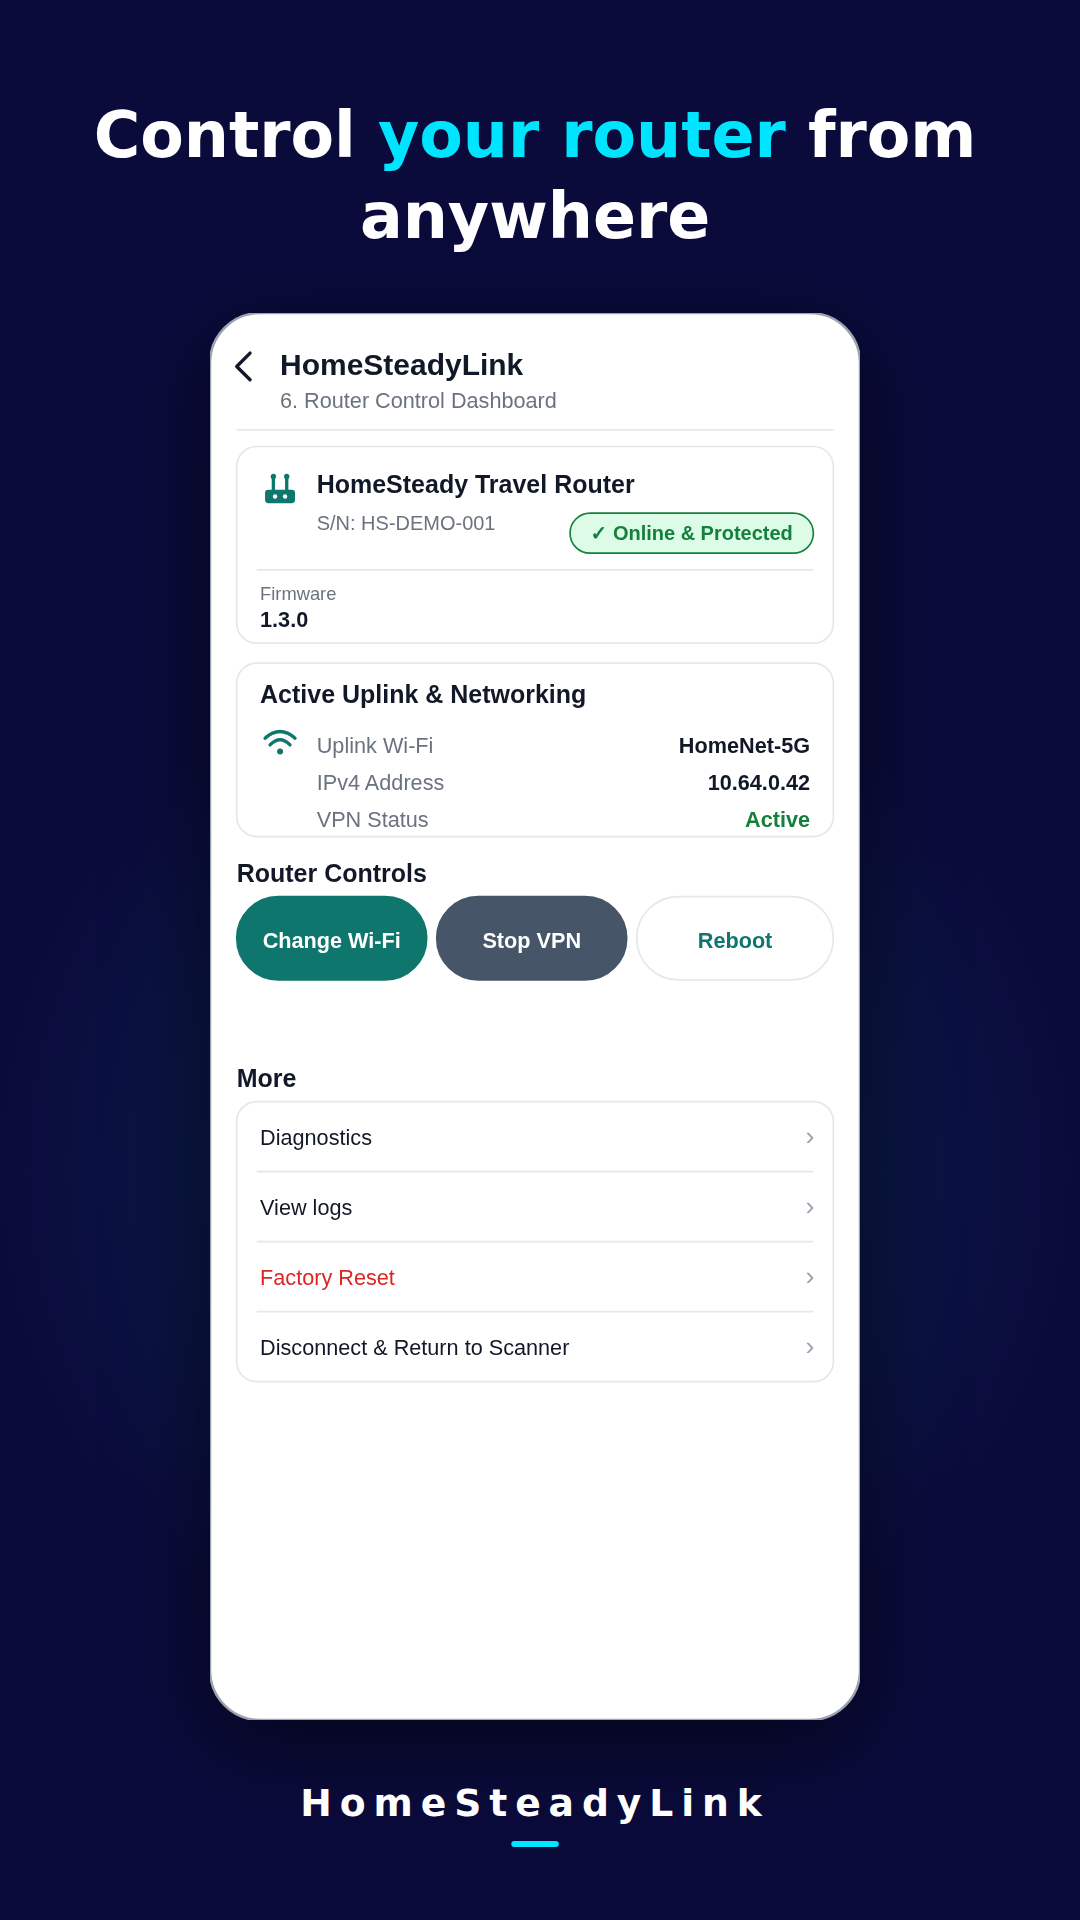
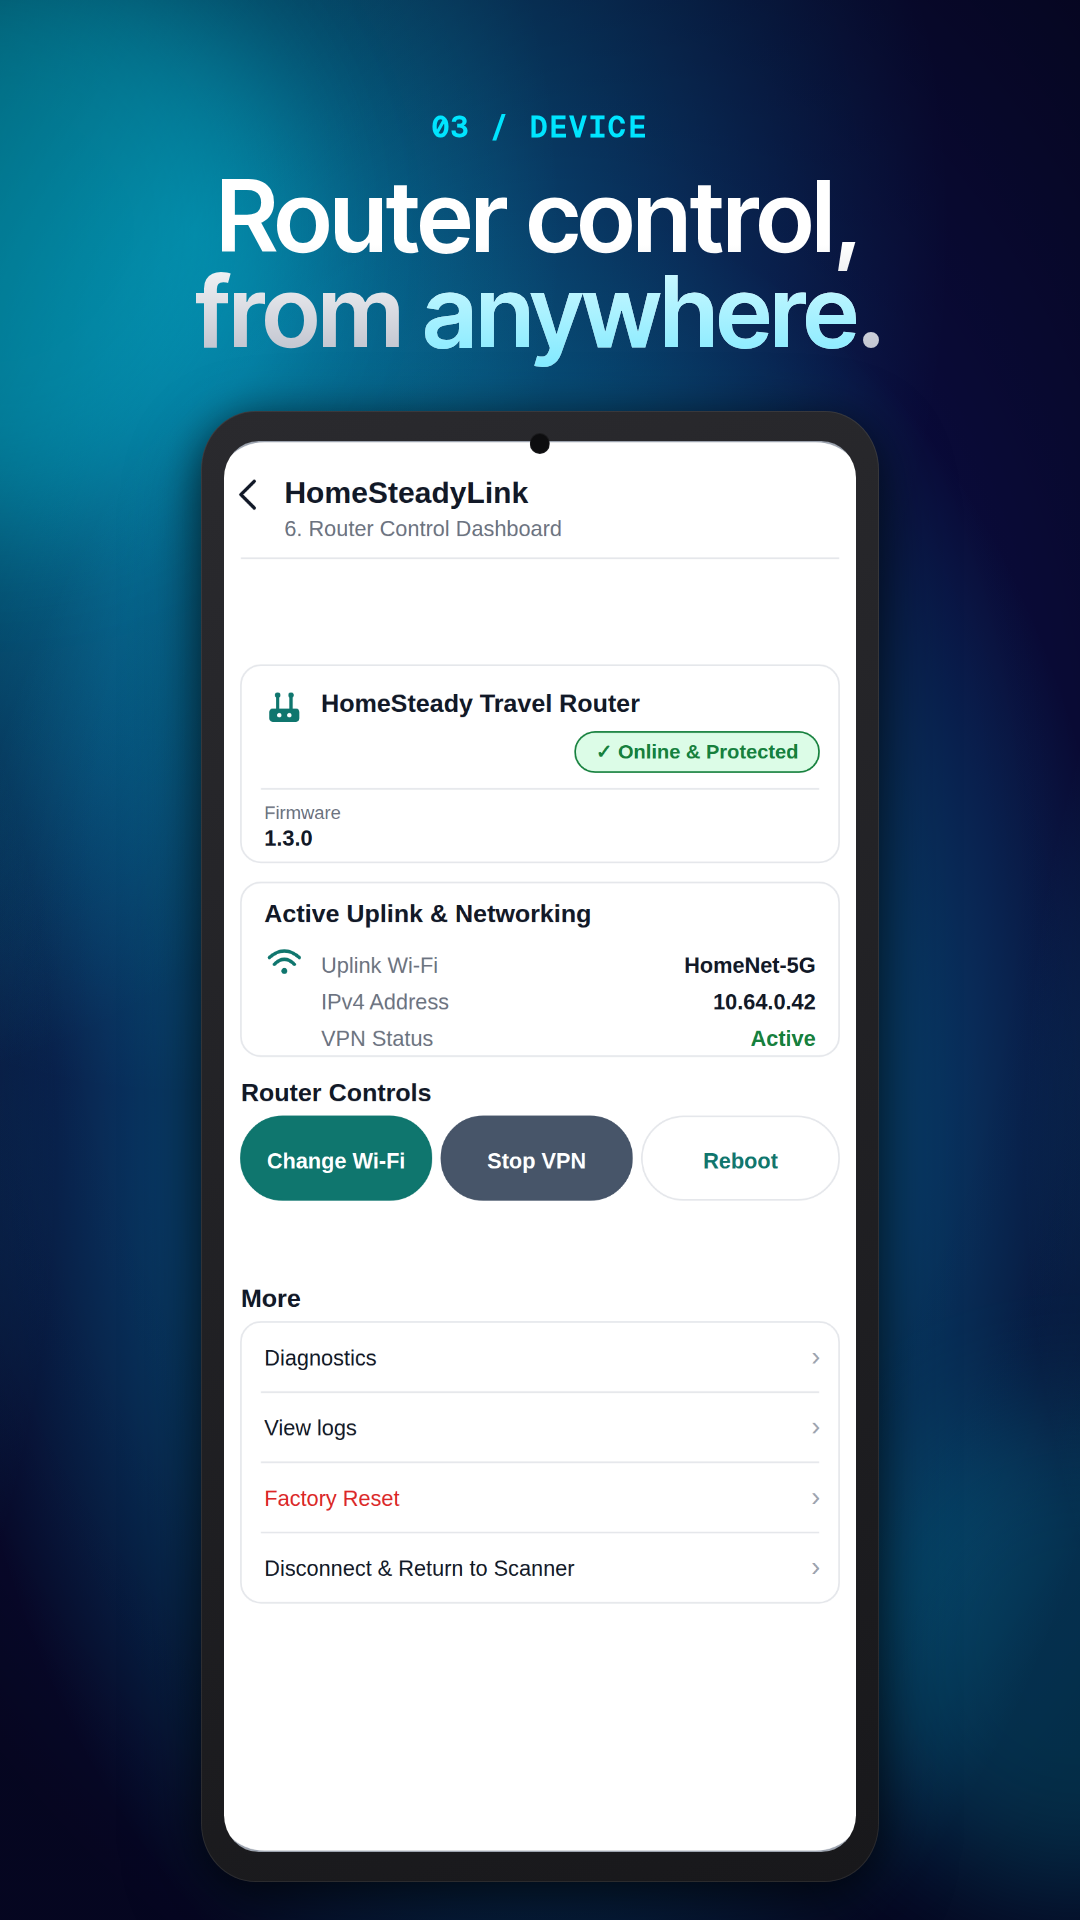
design: regenerate Play ASO cards v2 with ParthJadhav editor (Midnight Glow Pro, cyan beam)
Den: v1 design sucks. Rebuilt with the app-store-screenshots editor:
- Midnight Glow Pro, cyan-beam adaptation (brand navy void, cyan
  spotlight, Inter Tight 600 gradient headlines, one cyan-lit word
  per card, mono eyebrow labels, real device bezel)
- Card 1 is a real v3 emulator capture; cards 2-5 cleaned wireframes
  (fake banner / UUID / spec notes stripped)
- Critic 5x PASS; thumbnail test at 220px PASS
- Slot order + 2-5-word captions unchanged

diff --git a/design/play-screenshots/README.md b/design/play-screenshots/README.md
@@ -5,13 +5,24 @@ Branded store cards for the Google Play listing, built 2026-11-18
 screenshots). One benefit headline per card, brand navy #0A0B3B +
 cyan #00E5FF, style Bold, tagline "Your home network, anywhere you go".
 
+**v2 (2026-11-18, regenerated after Den: "design sucks")** — rebuilt with
+the ParthJadhav `app-store-screenshots` editor (vendored skill), style
+**Midnight Glow Pro, cyan-beam adaptation**: near-black navy void,
+cyan spotlight from above, Inter Tight 600 headlines with a white→grey
+gradient and one cyan-lit word per card, mono eyebrow labels
+(`01 / SCAN` …), real device bezel with shadow + glow. Editor project:
+`~/workspace/homesteadylink/card-editor/` (`app-store-screenshots.json`
+deck, `clean-wireframes.py`, `render-wireframes.cjs`, `export-deck.cjs`).
+Headline scale 1.0; device-bottom captions shifted +50 px so 2-line
+headlines clear the phone bezel.
+
 | # | File | Headline | Screen |
 |---|------|----------|--------|
-| 1 | 01-scan-home-network.png | Home network, anywhere you go | Scan — finds the router, Connect |
+| 1 | 01-scan-home-network.png | Home network, anywhere you go | Scan — REAL v3 emulator capture (real flavor) |
 | 2 | 02-vpn-kill-switch.png | Kill switch on. Nothing leaks. | VPN — WireGuard/Tailscale, masked config |
-| 3 | 03-device-control.png | Control your router from anywhere | Device — status, VPN toggle, controls |
-| 4 | 04-wifi-pick-network.png | Join any Wi-Fi in seconds | Wi-Fi — pick network, enter password |
-| 5 | 05-pair-one-code.png | One code pairs your router | Pair — 6-digit setup code |
+| 3 | 03-device-control.png | Router control, from anywhere. | Device — status, VPN toggle, controls |
+| 4 | 04-wifi-pick-network.png | Join any Wi-Fi in seconds. | Wi-Fi — pick network, enter password |
+| 5 | 05-pair-one-code.png | One code pairs your router. | Pair — 6-digit setup code |
 
 Order follows the app-store-optimization skill: slot 1 primary value,
 slot 2 core differentiator (VPN + kill switch), slot 3 next strongest
@@ -23,45 +34,55 @@ tagline stays on the feature graphic and in the listing copy.
 
 ## Source (provenance — read before replacing)
 
-The phone UI on each card is the **approved wireframe** from
-`HomesteadLink/mobile-app` `docs/wireframes/` (PR #67, redrawn
-post-simplicity), cleaned for public use — the raw wireframes carry a
-"FAKE DEVICE MODE" banner and drafting notes, which were stripped
-(see the cleaning script in `~/workspace/homesteadylink/aso-cards/build/clean-svgs.py`).
-Fidelity fixes vs. the shipped app, verified against the code:
-Pair subtitle shows just the BLE address (PairScreen.kt:99); Device
-serial is the app fallback HS-DEMO-001; VPN config shows the masked
-display the app shows by default. Card 1 also carries the real v3
-order link ("Don't have a board? Let's order one", PR #78).
+Card 1 is a **real capture**: the v3 real-flavor emulator run
+(`~/workspace/homesteadylink/emu-v3/shot-real-scan.png`, 1080×2400),
+showing the shipped Scan screen with the "Scan again" button and the
+"Don't have a board? Let's order one" link (PR #78). Cards 2–5 use the
+**approved wireframe** from `HomesteadLink/mobile-app` `docs/wireframes/`
+(PR #67, redrawn post-simplicity), cleaned for public use — the raw
+wireframes carry a "FAKE DEVICE MODE" banner, a service UUID, a BLE MAC
+and drafting notes, which were stripped (v2 cleaning script:
+`~/workspace/homesteadylink/card-editor/clean-wireframes.py`; v1:
+`~/workspace/homesteadylink/aso-cards/build/clean-svgs.py`). The s3
+helper line "Using your phone's Wi-Fi network …" is genuine UI copy and
+was kept. No clean live capture exists yet for VPN/Device/Wi-Fi/Pair
+(the board test hasn't happened; the PR #40 emulator shots carry the
+FAKE DEVICE banner and must never be used publicly). When clean live
+captures exist, swap them in and update this file.
 
-These are **cards built from the approved design, not live
-screenshots** — no clean live capture exists yet (the board test
-hasn't happened; the PR #40 emulator shots carry the FAKE DEVICE
-banner and must never be used publicly). When the v3 emulator
-evidence is clean, swap these for live captures and update this file.
-
-## Critic verdicts (growth-design, 2026-11-18)
+## Critic verdicts (growth-design, 2026-11-18, v2)
 
 All 5 cards: **PASS** — Check 1 KPI (each shows the value that makes
-a user install; card 1 carries the biggest promise), Check 2 product
+a user install; card 1 carries the biggest promise; slot 2 is the core
+differentiator per the app-store-optimization skill), Check 2 product
 (every element verified against the shipped app/listing copy; no
 feature shown that doesn't exist; no verified-pairing claim), Check 3
 brand (same two colors, same tagline, Bold, same wordmark as the
 feature graphic v3 and the landing). Headlines checked by reading the
-renders at full size and at 300 px (Play search size).
+renders at full size and at 220 px (thumbnail test: style, app purpose
+and benefit all read at 220 px). Quality-bar §10 checks pass: no
+clipped text, no headline collision with the phone bezel (fixed by
+headline scale 1.0 + caption shift on device-bottom slides), no empty
+band >22%, no fake claims.
 
-Re-ordered 2026-11-18 per the app-store-optimization skill (slot 1
-primary value, slot 2 core differentiator, slot 3 next strongest
-feature; all captions benefit-oriented, 2–5 words). First-fold
-preview (slots 1–3 side by side at 300 px) verified: three distinct
-benefits, captions readable, no onboarding/splash screen in the
-first 3. Card 1's headline is the tagline trimmed to 5 words; the
-verbatim 6-word tagline stays on the feature graphic and in the
+v1 verdicts (same date, earlier run): also 5× PASS, same checks; v1 was
+replaced on design grounds (flat navy, no bezel, no designed
+background), not on a critic FAIL. Slot order unchanged from v1
+(slot 1 primary value, slot 2 core differentiator, slot 3 next
+strongest feature; all captions benefit-oriented, 2–5 words).
+Card 1's headline is the tagline trimmed to 5 words ("Your" dropped);
+the verbatim 6-word tagline stays on the feature graphic and in the
 listing copy.
 
 ## Build
 
-Cards are composed as HTML (1080×1920) and rendered with headless
-Chromium 157 via CDP. Sources: `~/workspace/homesteadylink/aso-cards/build/`
-(clean-svgs.py, make-cards.py, cdp-card-shots.js, run.sh). Final PNGs
-also at `~/workspace/homesteadylink/aso-cards/`.
+v2: ParthJadhav `app-store-screenshots` editor, scaffolded at
+`~/workspace/homesteadylink/card-editor/` (Next.js, `npm install`,
+`npm run build`, `npm run start -p 3000`, headless export via
+Playwright `export-deck.cjs` → `~/workspace/homesteadylink/card-export/`).
+Style implemented in the scaffolded copy only (never in the vendored
+skill): `midnight-glow-cyan` theme, Inter Tight 600 + Geist Mono
+fonts, gradient headline with `*word*` lit-word parsing in
+`slide-canvas.tsx`. v1: HTML composition rendered with headless
+Chromium 157 via CDP (`~/workspace/homesteadylink/aso-cards/build/`).
+Final PNGs also at `~/workspace/homesteadylink/aso-cards/`.
